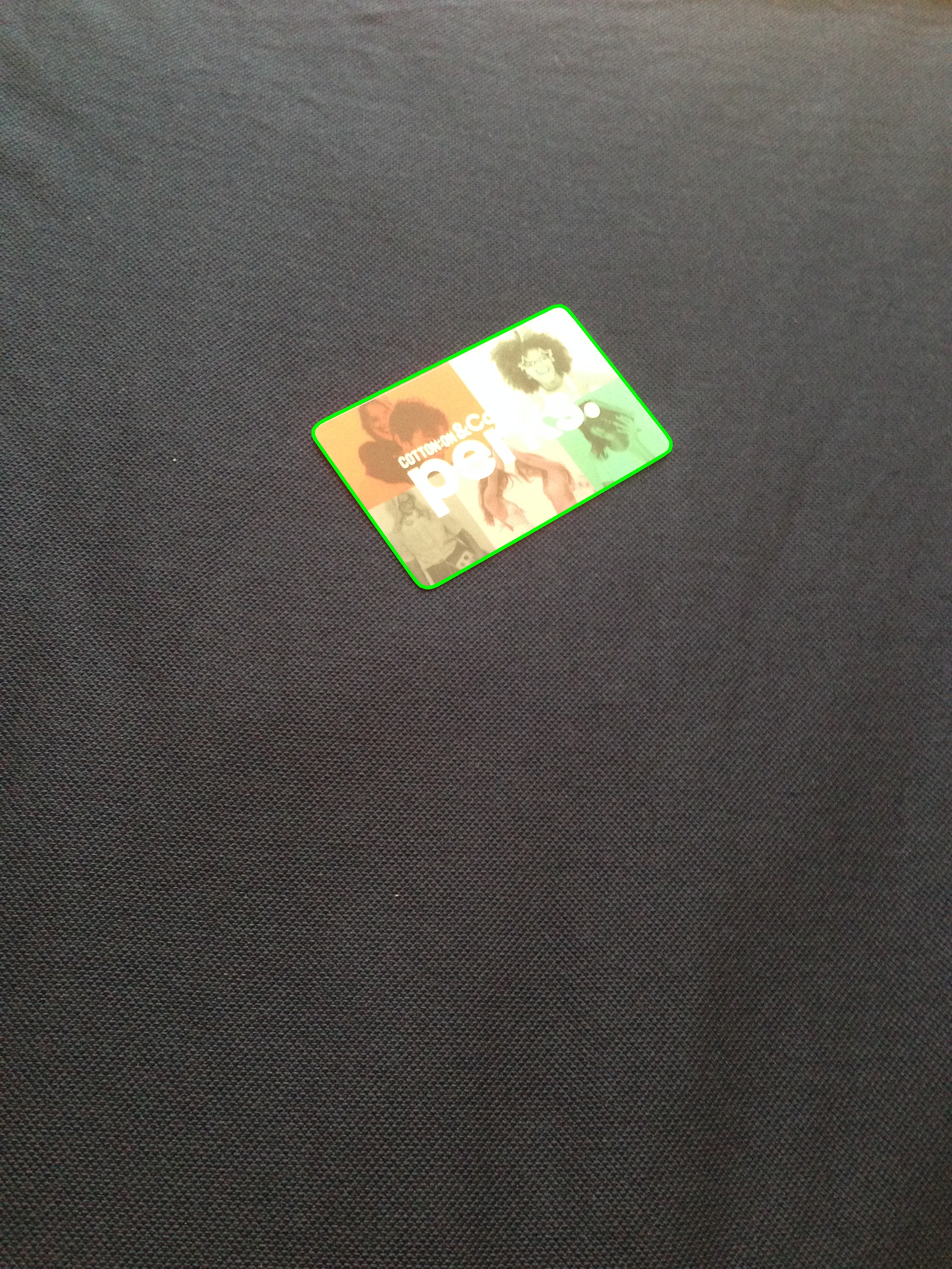
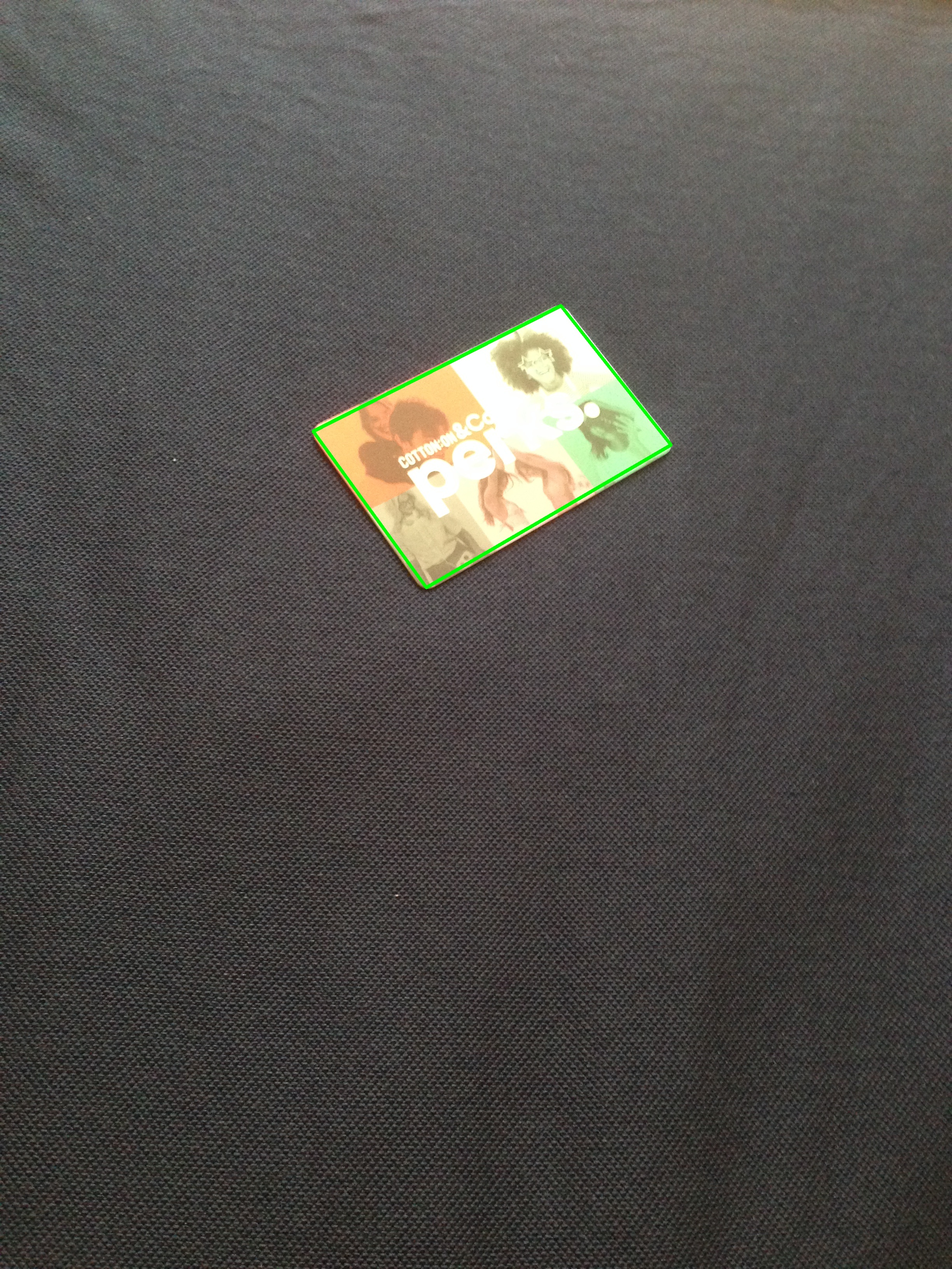
Update for Phase2

diff --git a/Phase2/Contour_Final_ed.py b/Phase2/Contour_Final_ed.py
@@ -86,12 +86,19 @@ for filename in os.listdir(path):
                 max_con = len(i)
                 result = i
 
-        # Determine if the ratio of contour belongs to a card 1.45 < ratio <1.7
+        # Determine if the ratio of contour belongs to a card 1.4 < ratio <1.7
         rect = cv2.minAreaRect(result)
-        ratio = rect[1][0]/rect[1][1]                       # For Debugging purpose /rect[1][0]/width /rect[1][1]/height
+        if rect[1][0] > rect[1][1]:
+            width = rect[1][0]
+            height = rect[1][1]
+        else:
+            width = rect[1][1]
+            height = rect[1][0]
+        ratio = width/height                       # For Debugging purpose /rect[1][0]/width /rect[1][1]/height
+        area_con = cv2.contourArea(result)
+        area = width * height
 
-        if (rect[1][0] < 1250) and (rect[1][1] < 1250) and (rect[1][0]/rect[1][1] > 1.45) and\
-                (rect[1][0]/rect[1][1] < 1.7):# and (cv2.contourArea(result) > (rect[1][0] * rect[1][1]) * 0.85):
+        if (ratio > 1.4) and (ratio < 1.7) and (area_con > area * 0.9):
 
             # Draw obtained contour
             ori = img.copy()                # Make a deep copy of the original image
@@ -105,14 +112,22 @@ for filename in os.listdir(path):
             # Save the result as a new file
             cv2.imwrite(f'Result_{filename}', ori)
             print('output', f'Result_{filename}')
+
         else:
             # Try to find the contour by approximating polygonal curves
             epsilon = 0.115 * cv2.arcLength(result, True)
             approx = cv2.approxPolyDP(result, epsilon, True)
             rect = cv2.minAreaRect(approx)
 
-            if (len(approx) == 4) and (rect[1][1] != 0) and (rect[1][0]/rect[1][1] > 1.45) and \
-                    (rect[1][0]/rect[1][1] < 1.7):
+            if rect[1][0] > rect[1][1]:
+                width = rect[1][0]
+                height = rect[1][1] if rect[1][1] != 0 else 1.0
+            else:
+                width = rect[1][1]
+                height = rect[1][0] if rect[1][0] != 0 else 1.0
+            ratio = width / height              # For Debugging purpose /rect[1][0]/width /rect[1][1]/height
+
+            if (height != 0) and (ratio > 1.4) and (ratio < 1.7) and (area_con > area * 0.85):
 
                 # Draw obtained contour
                 ori = img.copy()                    # Make a deep copy of the original image
